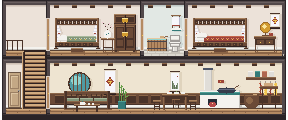
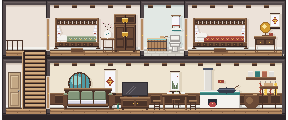
Season maps: people breathe while standing; 茵菲谷 living room gets a three-seat sofa and a TV the parents watch
Claude-Session: https://claude.ai/code/session_01HP37xpvuwwsvGpZEAk6w5s

Changed region(s): [[0.2188, 0.675, 0.5312, 0.925]]

diff --git a/prototype/map-test/infei_home.js b/prototype/map-test/infei_home.js
@@ -11,23 +11,24 @@ const infeiHome=(function(){
   bath:{name:'木浴桶',rect:[171,28,25,23],x:184,y:50,need:'hygiene',act:'bath',label:'泡个澡',hide:true,line:['热水泡一泡，舒服','木桶的味道真好闻']},
   toilet:{name:'卫生间',rect:[196,24,16,27],x:204,y:50,need:'bladder',act:'toilet',label:'上厕所',line:['马上出来']},
   parents:{name:'爸妈的房间',rect:[216,10,92,41],x:240,y:50,look:['这是爸妈的床，我不睡这儿','被子是妈妈新缝的']},
-  settee:{name:'长椅',rect:[90,84,48,25],x:114,y:108,need:'fun',act:'season_sofa',label:'坐着歇会儿',line:['坐一会儿，看看窗外','这椅子坐着真舒服'],max:90},
+  settee:{name:'沙发',rect:[89,86,50,23],x:113,y:108,iy:-5,face:1,need:'fun',act:'season_sofa',label:'坐着歇会儿',line:['坐一会儿，看看窗外','这沙发软乎乎的'],max:90},
+  tv:{name:'电视',rect:[146,80,30,29],x:113,y:108,iy:-5,face:1,need:'fun',act:'tv',label:'看电视',line:['看会儿电视','看看今天演什么']},   // owner 2026-11-14: 客厅放沙发电视 (the home's TV act, watched from the sofa)
   table:{name:'饭桌',rect:[176,80,52,29],x:184,y:108,face:1,need:'hunger',act:'eat',label:'吃饭',line:['开饭咯','真香']},
   stove:{name:'灶台',rect:[226,66,46,43],x:276,y:108,face:-1,need:'hunger',act:'cook',label:'做顿饭',line:['生火、切菜……','自己做的就是香'],rate:3},
   cupboard:{name:'碗柜',rect:[0,0,0,0],x:262,y:108,face:-1,need:'hunger',act:'snack',log:'饿坏了，从碗柜里拿了妈妈留的饭。',label:'拿现成的',line:['先吃点现成的','妈妈留了饭']},   // no art of its own: the corner by the stove (quick meal only)
   jar:{name:'水缸',rect:[272,82,34,27],x:285,y:108,need:'hunger',act:'snack',log:'舀了口井水喝。',label:'喝口水',line:['井水凉丝丝的']}
  };
  const RATE={hunger:2.4,energy:.45,hygiene:3,bladder:8,fun:1.3,social:1.6};
- const NEED_SPOT={energy:'bed',hygiene:'bath',bladder:'toilet',hunger:'stove',fun:'settee'};
+ const NEED_SPOT={energy:'bed',hygiene:'bath',bladder:'toilet',hunger:'stove',fun:'tv'};
  let svc=null,lastT=sim.t,hinted=false,wasInside=false,leaving=false;
  const inRect=(x,y,[rx,ry,w,h])=>x>=rx&&x<rx+w&&y>=ry&&y<ry+h;
- function stop(){if(!svc)return;const s=C().state;s.pose=null;s.hideHero=false;seasonHouse.drop(svc.act);svc=null;T.state.autoAt=sim.t+30;}
+ function stop(){if(!svc)return;const s=C().state;s.pose=null;s.hideHero=false;s.iy=0;seasonHouse.drop(svc.act);svc=null;T.state.autoAt=sim.t+30;}
  function use(id,auto){
   if(id==='table'&&!homeMeal())id='stove';
   if(id==='stove'&&auto&&homeMeal())id='table';   // a cooked meal waits on the table: eat it, don't cook another (owner 2026-11-10)   // nothing on the table: cook first, then eat (as at home)
   if(id==='stove'&&!auto){closeRing();seasonHouse.menu('spring');return;}   // the player clicked the stove (or an empty table): the menu
   const p=SPOTS[id],c=C();if(!p||!p.act)return;stop();closeRing();T.state.autoAt=sim.t+60;
-  const begin=()=>{const s=c.state;s.x=p.x;s.facing=p.face||(p.x>170?1:-1);svc={id,act:p.act,need:p.need,auto};s.pose=null;s.hideHero=!!p.hide;speak(pick(p.line),true);seasonHouse.start(p.act,{auto,log:p.log});};
+  const begin=()=>{const s=c.state;s.x=p.x;s.facing=p.face||(p.x>170?1:-1);svc={id,act:p.act,need:p.need,auto};s.pose=null;s.hideHero=!!p.hide;s.iy=p.iy||0;speak(pick(p.line),true);seasonHouse.start(p.act,{auto,log:p.log});};
   if(!c.state.inside){c.state.target=null;c.state.after=null;c.state.door={to:true,elapsed:0,duration:.65,mid:false};
    const wait=()=>{if(!inSpring())return;if(c.state.door||!c.state.inside)return setTimeout(wait,120);c.target(p.x,p.y,begin);};setTimeout(wait,120);}
   else c.target(p.x,p.y,begin);
@@ -56,10 +57,13 @@ const infeiHome=(function(){
   if(info.inside)sleepers(ctx,!!svc&&svc.id==='bed'&&s.inside&&!s.target);
   if(info.inside&&svc&&svc.id==='bath'&&s.inside&&!s.target){const p=SPOTS.bath,top=TUB_RIM-15,src=dollCanvas({expr:'happy',look:0,bob:0,sway:0,wave:null},'stand');
    ctx.drawImage(src,0,0,src.width,TUB_RIM-top,p.x-10,top,src.width,TUB_RIM-top);}   // in the tub: head and shoulders above the rim
+  // the television plays the home's programmes while she or 爸妈 watch from the sofa
+  if(info.inside&&(seasonHouse.running('tv')&&s.inside||window.seasonParents?.watching?.())){const f=nextTvFrame();if(f)ctx.drawImage(f,TV_AT[0],TV_AT[1]);}
+  else if(typeof tvPlayback!=='undefined'&&inSpring())tvPlayback.playing=false;
   if(info.inside){seasonHouse.cookFx(ctx,COOK_FX[0],COOK_FX[1]);seasonHouse.meal(ctx,MEAL_AT[0],MEAL_AT[1]);}   // the home's pan and dish
   if(svc){
-   if(s.target||!s.inside){s.pose=null;s.hideHero=false;seasonHouse.drop(svc.act);svc=null;return;}
-   if(!seasonHouse.running(svc.act)){s.pose=null;s.hideHero=false;svc=null;return;}   // the home's act is over (its next step is routed below)
+   if(s.target||!s.inside){s.pose=null;s.hideHero=false;s.iy=0;seasonHouse.drop(svc.act);svc=null;return;}
+   if(!seasonHouse.running(svc.act)){s.pose=null;s.hideHero=false;s.iy=0;svc=null;return;}   // the home's act is over (its next step is routed below)
    T.state.autoAt=sim.t+1e6;
    if(info.inside&&svc.id==='bed'&&!reduced())seasonHouse.sleepFx(ctx,BEDS.mine[0]+HEAD[0]+10,BEDS.mine[1]+HEAD[1]-14);
    if(info.inside&&svc.id==='bath')seasonHouse.emote(ctx,SPOTS.bath.x+3,TUB_RIM-29);
@@ -91,7 +95,7 @@ const infeiHome=(function(){
   if(she&&covers.mine?.complete){const [bx,by]=BEDS.mine;ctx.drawImage(lyingHead(SLEEPY),bx+HEAD[0],by+HEAD[1]);ctx.drawImage(covers.mine,bx,by);}
  }
  const HEAD=[2,8];
- const COOK_FX=[246,69],MEAL_AT=[194,80];   // the home's pan steam over the stove, the dish on the dining table (tuned by screenshot)
+ const COOK_FX=[246,69],MEAL_AT=[194,80],TV_AT=[149,83];   // TV_AT: the screen (24×12) of the set on its cabinet   // the home's pan steam over the stove, the dish on the dining table (tuned by screenshot)
  const TUB_RIM=34;   // the bath tub's top edge (house px)   // the rotated head's place on the pillow, in bed-sprite coordinates
  const reduced=()=>matchMedia('(prefers-reduced-motion:reduce)').matches;
  // 回家 = the farmhouse; 离开茵菲谷 is the only way out (player only)

diff --git a/prototype/map-test/season_parents.js b/prototype/map-test/season_parents.js
@@ -12,7 +12,7 @@
  const npc={};const npcOf=id=>{const lk=look(id);if(!npc[id]||npc[id].look!==lk)npc[id]={look:lk,ramps:doll.rampsOf(lk),cache:new Map(),kid:false};return npc[id];};
  const name=id=>id==='mom'?'妈妈':'爸爸',contact=id=>socialState.contacts.find(c=>c.id===id);
  // farmhouse ground floor (house px): where they stand or sit
- const AT={stove:[262,'stand'],jar:[300,'stand'],tableL:[200,'sit'],tableR:[216,'sit'],setteeL:[99,'sit'],setteeR:[124,'sit'],door:[60,'stand'],kitchen:[240,'stand']};
+ const AT={stove:[262,'stand'],jar:[300,'stand'],tableL:[200,'sit'],tableR:[216,'sit'],setteeL:[100,'sit'],setteeR:[126,'sit'],door:[60,'stand'],kitchen:[240,'stand']};
  let visit=null;   // {day} — she flew in to see them: both home all day
  // ---------------------------------------------------------------- the day's plan → {mom:spot,dad:spot}
  function plan(){if(!ready())return {};const m=mins(),v=visit&&visit.day===today(),fc=farmCny();
@@ -27,7 +27,10 @@
   if(m>=14*60&&m<16*60&&today()%3===1)o.mom=Math.floor(m/40)%2?'jar':'setteeL';
   if(typeof weather!=='undefined'&&weather.kind==='rain'&&m>=8*60&&m<17*60+30){o.mom=Math.floor(m/50)%3===0?cook:'setteeL';o.dad=Math.floor(m/70)%2?'tableR':'setteeR';}
   if(v&&m>=8*60&&m<17*60+30){o.mom=Math.floor(m/90)%2?'tableL':cook;o.dad=Math.floor(m/120)%2?'tableR':'setteeR';}
-  if(infeiHome.svc?.id==='settee'&&o.dad==='setteeR')o.dad='tableR';   // she took the middle of the bench: 爸爸 moves to the table
+  // owner 2026-11-14: the sofa seats three (she sits in the middle), and on some days they watch television:
+  // after lunch for a while, and now and then in the afternoon
+  if(m>=13*60+30&&m<14*60+30&&today()%3!==1){o.dad='setteeR';if(today()%2)o.mom='setteeL';}
+  if(m>=15*60+30&&m<16*60+40&&today()%4===2){o.mom='setteeL';o.dad='setteeR';}
   return o;}
  // ================================================================ 爸妈像她一样真的走动（owner 2026-11-12：不要闪现）
  // Each parent is a little walker with a place in the valley (in the farmhouse on a floor, out in a field, or gone to town).
@@ -35,7 +38,7 @@
  // (inside x 51 / the yard x 182), field to field over the scene edges, off the brook's left edge to town and back.
  const WIDTH=[342,342,342,342,342,684],FLOOR=[108,50],STAIR=61,DOOR_IN=51,DOOR_OUT=182;
  const SPOT={stove:{in:1,f:0,x:262},jar:{in:1,f:0,x:300},tableL:{in:1,f:0,x:200,pose:'sit'},tableR:{in:1,f:0,x:216,pose:'sit'},
-  setteeL:{in:1,f:0,x:99,pose:'sit'},setteeR:{in:1,f:0,x:124,pose:'sit'},kitchen:{in:1,f:0,x:240},
+  setteeL:{in:1,f:0,x:100,pose:'sit',face:1},setteeR:{in:1,f:0,x:126,pose:'sit',face:1},kitchen:{in:1,f:0,x:240},
   bedM:{in:1,f:1,x:236,pose:'sleep'},bedD:{in:1,f:1,x:256,pose:'sleep'},
   coop:{s:3,x:82,face:-1,fx:'grain',roam:[72,104]},yardL:{s:3,x:166,face:1},yardR:{s:3,x:198,face:-1},
   field:{s:4,x:150,roam:[40,300],fx:'weed'},orchard:{s:5,x:190,roam:[70,300]},pasture:{s:5,x:520,roam:[410,640]},town:{away:1}};
@@ -89,11 +92,14 @@
  // compatibility: who is in the farmhouse (with the old shape {id,q:{x,tx,out},pose,k})
  function here(){if(!ready()||!inSpring())return [];const up=C().state.y<80?1:0;
   return Object.values(ag).filter(a=>a.w==='in'&&!a.hidden&&!a.sleep&&a.climb==null).map(a=>({id:a.id,q:{x:a.x,tx:a.op||a.wander?NaN:a.x,out:a.f!==up},pose:spotOf(a.k).pose||'stand',k:a.k}));}
+ // someone is sitting on the sofa in front of the television (the set is on for them)
+ const watching=()=>inSpring()&&ready()&&Object.values(ag).some(a=>a.w==='in'&&!a.op&&!a.wander&&String(a.k).startsWith('settee'));
  const sleeping=id=>inSpring()&&ready()&&ag[id].w==='in'&&ag[id].sleep&&!ag[id].op;
  // ---------------------------------------------------------------- drawing
  function drawWalker(ctx,a,feet){const t=spotOf(a.k),arrived=!a.op&&!a.wander,sit=arrived&&t.pose==='sit',s=C().state;
   const look=a.moving?a.face:arrived&&t.face?t.face:Math.sign(s.x-a.x)||1;
-  const f={expr:sit?'happy':'neutral',look,bob:a.moving?Math.floor(realClock*5)%2:0,sway:a.moving?Math.floor(realClock*3)%2:0,wave:null};
+  const f={expr:sit?'happy':'neutral',look,bob:a.moving?Math.floor(realClock*5)%2:idleBreath.bob(a.id==='mom'?.6:1.3),sway:a.moving?Math.floor(realClock*3)%2:0,wave:null};
+  if(!a.moving&&idleBreath.blink(a.id==='mom'?1.1:2.7))f.expr='blink';
   const p=sit?'sit':a.moving?['walkL','stand','walkR','stand'][Math.floor(realClock*6)%4]:'stand';
   ctx.drawImage(npcCanvas(npcOf(a.id),f,p,false),Math.round(a.x)-10,feet-27-(sit?(String(a.k).startsWith('settee')?5:3):0));
   if(arrived&&t.fx==='grain'){ctx.fillStyle='#e8cf7a';for(let i=0;i<4;i++){const u=(realClock*1.3+i/4)%1;ctx.fillRect(Math.round(a.x-6-u*10-i),Math.round(feet-14+u*13),1,1);}}
@@ -252,5 +258,5 @@
   if(p==='spring_test'&&visit?.pending){visit={day:today()};setTimeout(()=>{if(!inSpring())return;if(ready()&&!C().state.inside)X.hooks.pick.indoor();talkQ.push(['mom',pick(['来啦！路上累不累？','哎呀，怎么突然回来了，也不说一声！','正念叨你呢，你就到了。'])],['dad',pick(['我去杀只鸡。','屋里坐，外头风大。','行李给我。'])],['me',pick(['想你们了嘛！','回来看看你们～','饿了！'])]);
    log('飞到茵菲谷，爸妈都在家。');addSocialMemory?.(contact('mom'),'回茵菲谷看爸妈','坐飞机去茵菲谷，爸妈都在家等着。');},1800);}
   return r;};
- window.seasonParents={plan,here,farmCny,goSee,sleeping,doErrand,tell,walkers:ag,get visit(){return visit;}};
+ window.seasonParents={plan,here,farmCny,goSee,sleeping,doErrand,tell,walkers:ag,watching,get visit(){return visit;}};
 })();

diff --git a/prototype/map-test/adapter.js b/prototype/map-test/adapter.js
@@ -7,12 +7,17 @@ const seasonalTest=(function(){
  const active=()=>['spring_test','summer_test','autumn_test'].includes(sim.place);
  const ctl=()=>sim.place==='spring_test'?state.spring:sim.place==='summer_test'?state.summer:sim.place==='autumn_test'?state.autumn:null;
  const body=document.createElement('canvas');body.width=20;body.height=28;const bodyCtx=body.getContext('2d');
+ // Standing still is not frozen (owner 2026-11-14: at home she at least stretches and settles; in the season maps she
+ // and 爸妈 stood like statues): the home's idle rhythm, a small rise and settle every couple of seconds and a blink
+ // now and then. ph shifts the rhythm so two people side by side do not move as one.
+ window.idleBreath={bob:(ph=0)=>reduceMotionUI?0:(realClock+ph)%1.9<.4?1:0,blink:(ph=0)=>!reduceMotionUI&&(realClock+ph)%4.1<.12};
  function drawHero(ctx,x,y,s,sea){
   if(s.hideHero&&!sea)return;
   const swimming=sea&&(sea.under||sea.floating)&&!s.inside,arm=Math.floor(s.time/.28)%2;
-  const walking=s.walk,phase=Math.floor(s.time*7)%4;
-  let f={expr:sim.mode==='down'?'sleepy':emotion().key==='happy'?'happy':'neutral',look:s.facing||1,bob:swimming?0:walking?phase%2:0,sway:swimming?0:walking?phase%2:0,wave:swimming?arm:null};
+  const walking=s.walk,phase=Math.floor(s.time*7)%4,still=!walking&&!swimming&&!s.pose&&sim.mode!=='down'&&!(sea&&s.lying!==null);
+  let f={expr:sim.mode==='down'?'sleepy':emotion().key==='happy'?'happy':'neutral',look:s.facing||1,bob:swimming?0:walking?phase%2:still?idleBreath.bob():0,sway:swimming?0:walking?phase%2:still?idleBreath.bob():0,wave:swimming?arm:null};
   let dc=dollCanvas(f,s.pose|| (sea&&s.lying!==null?'sit':swimming?'stand':walking?(phase===1?'walkL':phase===3?'walkR':'stand'):'stand'));
+  if(still&&idleBreath.blink()&&f.expr==='neutral'){f={...f,expr:'blink'};dc=dollCanvas(f,'stand');}
   const hf=(s.inside||['phone_feed','phone_game'].includes(sim.act))&&!walking&&sim.mode!=='down'&&window.seasonHouse?.frame();   // using a season house: the home's own face, pose and bubble for that act
   if(hf){f={...f,...hf.f,look:hf.f.look===0?0:(s.facing||1)};dc=dollCanvas(f,s.pose||hf.pose);}
   if(sea&&window.__surfHero&&!s.inside){const h=window.__surfHero;let d=dc;if(h.pose){d=dollCanvas(f,h.pose);if(s.suit!=='clothes'){bodyCtx.clearRect(0,0,20,28);bodyCtx.drawImage(sea.sheet,4,14,20,14,0,14,20,14);bodyCtx.drawImage(d,0,0,20,15,0,0,20,15);d=body;}}h.args={dc:d,skin:ramps.skin,sheet:sea.sheet};return;}   // riding a wave: summer_more draws her on the board, above the water
@@ -20,7 +25,7 @@ const seasonalTest=(function(){
   if(sea&&s.suit!=='clothes'){
    bodyCtx.clearRect(0,0,20,28);bodyCtx.drawImage(sea.sheet,4,14,20,14,0,14,20,14);bodyCtx.drawImage(dc,0,0,20,15,0,0,20,15);dc=body;
   }
-  ctx.save();ctx.translate(x,y+(sea?.floating?Math.sin(s.time*2.2)*.65:0));
+  ctx.save();ctx.translate(x,y+(sea?0:s.iy||0)+(sea?.floating?Math.sin(s.time*2.2)*.65:0));   // iy: raised onto a seat in the 茵菲谷 farmhouse (the lodge adds its own)
   if(sea&&(s.diveBlend||0)>.001){ctx.translate(0,-14);ctx.scale(s.facing||1,1);ctx.rotate(Math.PI/2*s.diveBlend);ctx.drawImage(dc,-10,-14);}
   else if(sim.mode==='down'){ctx.rotate(-Math.PI/2);ctx.drawImage(dc,-10,-18);}
   else ctx.drawImage(dc,-10,-DH+1);

diff --git a/prototype/map-test/season_auto.js b/prototype/map-test/season_auto.js
@@ -28,7 +28,7 @@
   const what=pickW([['stroll',dry.length||ripe.length?12:30],['home',s.inside?8:14],['water',dry.length?45:0],['animals',pet.length||ready.length||hungry.length?16:0],
    ['harvest',ripe.length?35:0],['fruit',trees.length?14:0]]);
   if(what==='stroll'){if(s.inside){c.leave();return true;}const w=s.scene===5?684:342;c.target(Math.max(20,Math.min(w-20,s.x+(Math.random()<.5?-1:1)*(30+Math.random()*70))));return true;}
-  if(what==='home'){infeiHome.use(pick(['settee','wardrobe','table','jar']),true);return true;}
+  if(what==='home'){infeiHome.use(pick(['settee','tv','wardrobe','table','jar']),true);return true;}
   if(what==='water'){const i=pick(dry);toScene(4,()=>X().water(i));return true;}
   if(what==='harvest'){const i=pick(ripe);toScene(4,()=>X().harvest(i));return true;}
   if(what==='fruit'){const i=pick(trees);toScene(5,()=>Fm.pickFruit(i));return true;}
@@ -99,7 +99,7 @@
    if(what==='shore'){if(s.inside){c.leave();return true;}c.goTo(820+Math.random()*200);return true;}
    summerLodge.goUse(pick(['tv','tv','sofa','uke','table','dine'].filter(k=>k!=='dine'||homeMeal())));return true;}
   if(window.infeiQuests?.busy||storyLocked()||springFarm.state.phase!=='done')return false;
-  if(Math.random()<.8){infeiHome.use(pick(['settee','settee','table','jar','wardrobe']),true);return true;}
+  if(Math.random()<.8){infeiHome.use(pick(['settee','tv','tv','table','jar','wardrobe']),true);return true;}
   if(s.inside){c.leave();return true;}return false;}
  // bedtime is checked every second (act() only runs every 20-45 minutes): she heads for bed right at 22:30
  setInterval(()=>{try{if(!['spring_test','summer_test'].includes(sim.place)||!speed||!bedtime()||wiping||cardHolds()||life.talkQ||storyLocked()||sim.mode==='down'||ringOf)return;

diff --git a/prototype/map-test/infei_farm.js b/prototype/map-test/infei_farm.js
@@ -147,7 +147,7 @@ const infeiFarm=(()=>{
   if(parent.water>0){parent.water-=dt;const [bx,top,bw,bh]=D.plots[parent.bed];ctx.fillStyle='#9cc8ef';for(let k=0;k<6;k++){const xx=bx+bw-4-((k*7+Math.floor(t*20))%Math.min(30,bw)),yy=top+((k*5+Math.floor(t*30))%(bh+4));ctx.fillRect(xx,yy,1,2);}
    if(parent.water<=0){const b=X.bedOf(parent.bed);if(b&&b.watered!==today()){b.watered=today();log(`${pName(parent.who)}回来了一趟，帮你给第 ${X.F.open.indexOf(parent.bed)+1} 块田浇了水。`);}parent.tx=380;parent.done=()=>parent.on=false;}}
   else if(parent.tx!=null){const d=parent.tx-parent.x,st=dt*WALK*1.1;if(Math.abs(d)<=st){parent.x=parent.tx;parent.tx=null;const f=parent.done;parent.done=null;f?.();}else{parent.x+=Math.sign(d)*st;parent.facing=Math.sign(d);}}
-  const walking=parent.tx!=null,ph=Math.floor(t*7)%4,f={expr:'happy',look:parent.water>0?-1:parent.facing||-1,bob:walking?ph%2:0,sway:walking?ph%2:0,wave:null};
+  const walking=parent.tx!=null,ph=Math.floor(t*7)%4,f={expr:'happy',look:parent.water>0?-1:parent.facing||-1,bob:walking?ph%2:parent.water>0?0:idleBreath.bob(.8),sway:walking?ph%2:0,wave:null};
   ctx.drawImage(npcCanvas(parent.n,f,walking?(ph===1?'walkL':ph===3?'walkR':'stand'):'stand'),Math.round(parent.x)-10,76);}
  withHeroHooks.push(id=>parent.on&&id===parent.who&&inSpring());
  // ================================================================ 每日操盘

diff --git a/prototype/map-test/spring_story.js b/prototype/map-test/spring_story.js
@@ -46,7 +46,7 @@ const springFarm=(()=>{
   if(Math.abs(d)<=st){mom.x=mom.tx;mom.tx=null;const f=mom.done;mom.done=null;f?.();}else{mom.x+=Math.sign(d)*st;mom.facing=Math.sign(d);}}
  function drawMom(ctx,info){
   if(!mom.on||(mom.inside?!info.inside:(info.inside||mom.scene!==info.region)))return;
-  const walking=mom.tx!=null,ph=Math.floor(info.time*7)%4,f={expr:'happy',look:mom.facing,bob:walking?ph%2:0,sway:walking?ph%2:0,wave:null};
+  const walking=mom.tx!=null,ph=Math.floor(info.time*7)%4,f={expr:'happy',look:mom.facing,bob:walking?ph%2:idleBreath.bob(.8),sway:walking?ph%2:0,wave:null};
   ctx.drawImage(npcCanvas(momNpc(),f,walking?(ph===1?'walkL':ph===3?'walkR':'stand'):'stand'),Math.round(mom.x)-10,Math.round(mom.y)-27);
   if(F.phase==='meet'){const x=Math.round(mom.x),y=Math.round(mom.y)-30+Math.round(Math.sin(info.time*3));   // her "!" (same as the villagers')
    ctx.fillStyle='#22182a';ctx.fillRect(x-4,y-11,9,11);ctx.fillStyle='#f6d36b';ctx.fillRect(x-3,y-10,7,9);ctx.fillStyle='#22182a';ctx.fillRect(x,y-9,1,5);ctx.fillRect(x,y-3,1,1);}

diff --git a/prototype/map-test/infei_quests.js b/prototype/map-test/infei_quests.js
@@ -250,7 +250,7 @@ const infeiQuests=(function(){
  X.hooks.draw.push((ctx,info)=>{if(info.inside||S().phase!=='done')return;const t=info.time,gs=goals();
   for(const [key,v]of Object.entries(V)){if(!visible(v))continue;const p=where(v);if(p.scene!==info.region)continue;
    const s=C().state;if(!busy&&Math.abs(s.x-p.x)<40)v.dir=s.x<p.x?-1:1;
-   const f={expr:'neutral',look:v.dir,bob:0,sway:0,wave:null};ctx.drawImage(npcCanvas(v,f,'stand'),Math.round(p.x)-10,103-27);
+   const f={expr:idleBreath.blink(p.x*.37)?'blink':'neutral',look:v.dir,bob:idleBreath.bob(p.x*.37),sway:0,wave:null};ctx.drawImage(npcCanvas(v,f,'stand'),Math.round(p.x)-10,103-27);
    const g=gs.find(g=>g.v===v);if(g&&!busy)mark(ctx,p.x,103-30-(v.kid?-4:0)+Math.round(Math.sin(t*3)),g.mark);}
   for(const g of gs)if(g.spot&&SPOTS[g.spot].scene===info.region&&!busy){const sp=SPOTS[g.spot];mark(ctx,sp.x,sp.rect[1]+18+Math.round(Math.sin(t*3)),g.mark||'?');}
   if(rabbit.on&&info.region===4)bunny(ctx,318,103,t);

diff --git a/prototype/map-test/infei_audio.js b/prototype/map-test/infei_audio.js
@@ -44,7 +44,7 @@ const infeiAudio=(function(){
   if(now.coins>a.coins+.05)play('infei-coin',.45,{gap:.3});
   for(const [k,st]of Object.entries(now.q)){const o=a.q[k];if(o==null||st===o||o===0)continue;   // 0→1 = a new quest: quest_panel.js plays it with its pop-out
   play(st===9?'infei-done':'infei-quest',.5);}
-  const HOME={bed:'fabric',bath:'water',toilet:'flush',stove:'cook',table:'cutlery',jar:'drink',settee:'seat',wardrobe:'fabric'};
+  const HOME={bed:'fabric',bath:'water',toilet:'flush',stove:'cook',table:'cutlery',jar:'drink',settee:'seat',tv:'seat',wardrobe:'fabric'};
   if(now.svc&&now.svc!==a.svc)play(HOME[now.svc]||'seat',.45);
  }
  springFarm.X.hooks.draw.push((ctx,info)=>{

diff --git a/art/src/concept/_farmstead.py b/art/src/concept/_farmstead.py
@@ -513,6 +513,41 @@ def settee(w=46):
     return s
 
 
+def sofa_cn(w=50):
+    """A three-seat sofa for the farmhouse living room (owner 2026-11-14: 沙发支持三个人坐), seen from the front: a
+    dark timber frame with a rail along the back, three fat back cushions, three seat cushions, padded arms."""
+    s = Sprite(w, 21)
+    s.rect(1, 0, w - 2, 3, DARK[2]).hline(1, w - 2, 0, DARK[4]).hline(1, w - 2, 2, DARK[1])     # the back's top rail
+    s.rect(2, 3, w - 4, 9, DARK[1])
+    n = (w - 10) // 3
+    for k in range(3):
+        cx = 5 + k * n
+        s.rect(cx, 3, n - 1, 9, P.sage[2]).hline(cx, cx + n - 2, 3, P.sage[3]).hline(cx, cx + n - 2, 11, P.sage[1])
+        s.vline(cx + n - 2, 4, 10, P.sage[1]).set(cx, 3, DARK[1]).set(cx + n - 2, 3, DARK[1])
+        s.rect(cx, 12, n - 1, 4, P.linen[2]).hline(cx, cx + n - 2, 12, P.linen[3]).hline(cx, cx + n - 2, 15, P.linen[1])
+    s.rect(4, 16, w - 8, 2, DARK[2]).hline(4, w - 5, 16, DARK[3])                              # the seat rail
+    for x in (0, w - 5):                                                                         # arms
+        s.rect(x, 6, 5, 12, DARK[2]).hline(x, x + 4, 6, DARK[4]).vline(x + 4 if x == 0 else x, 7, 17, DARK[1])
+        s.rect(x + 1, 5, 3, 2, P.sage[2]).hline(x + 1, x + 3, 5, P.sage[3])
+    for x in (1, w - 4):
+        s.rect(x, 18, 3, 3, DARK[1]).vline(x, 18, 20, DARK[2])
+    s.rect(5, 18, w - 10, 1, DARK[0])
+    return s
+
+
+def tv_cabinet(w=30):
+    """A low timber cabinet for the television: two doors with brass pulls, short legs."""
+    s = Sprite(w, 13)
+    s.rect(0, 0, w, 2, DARK[3]).hline(0, w - 1, 0, DARK[4])
+    s.rect(1, 2, w - 2, 9, DARK[2]).hline(1, w - 2, 10, DARK[1])
+    for x in (3, w // 2 + 1):
+        s.rect(x, 3, w // 2 - 4, 6, DARK[1]).hline(x, x + w // 2 - 5, 3, DARK[3])
+    s.set(w // 2 - 2, 6, P.mustard[3]).set(w // 2 + 2, 6, P.mustard[3])
+    for x in (2, w - 4):
+        s.rect(x, 11, 2, 2, DARK[1])
+    return s
+
+
 def tea_table():
     s = Sprite(26, 8)
     s.rect(0, 0, 26, 2, DARK[2]).hline(0, 25, 0, DARK[4])
@@ -757,16 +792,12 @@ def cn_farmhouse_inside():
     wainscot(x0, x1 - x0, fl)
     HS.place(s, moon_window(10), x0 + 18, top + 9)
     HS.place(s, scroll(12, 26, "fu"), x0 + 54, top + 6)
-    HS.on_floor(s, settee(46), x0 + 14, 0, 2)
-    tt = tea_table()
-    s.blit(tt, x0 + 24, fl + 1 - tt.h + 3)
-    teaset(s, x0 + 30, fl - 3)
-    pot_x = x0 + 68
-    s.rect(pot_x, fl - 7, 8, 8, P.teal[2]).hline(pot_x, pot_x + 7, fl - 7, P.teal[3]).vline(pot_x + 7, fl - 6, fl, P.teal[1])
-    for k in range(4):
-        s.vline(pot_x + 1 + k * 2, fl - 26 + k * 3, fl - 8, P.green[2 + (k % 2)])
-        s.line(pot_x + 1 + k * 2, fl - 20 + k * 3, pot_x + 4 + k * 2, fl - 22 + k * 3, P.green[3])
-        s.set(pot_x + 1 + k * 2, fl - 16 + k * 2, P.green[1])
+    # owner 2026-11-14: a sofa for three and a television in place of the settee, tea table and bamboo
+    HS.on_floor(s, sofa_cn(50), x0 + 13, 0, 2)
+    cab = tv_cabinet(30)
+    s.blit(cab, x0 + 70, fl + 2 - cab.h)
+    s.blit(F.tv(False), x0 + 72, fl + 2 - cab.h - 15)
+    s.rect(x0 + 67, fl - 3, 2, 4, P.teal[2]).set(x0 + 67, fl - 4, P.green[3]).set(x0 + 68, fl - 5, P.green[2])   # a sprig in a jar by the cabinet
     tx = x0 + 112
     HS.place(s, scroll(10, 22, "mountain"), tx + 8, top + 8)
     HS.on_floor(s, stool(), tx + 10, 0, 1)

diff --git a/docs/AGENT_LOG.md b/docs/AGENT_LOG.md
@@ -6,6 +6,12 @@ owner decisions made, what was not tested. Keep older entries; trim beyond ~40 e
 
 ---
 
+## 2026-11-14 Claude — 季节地图站着会呼吸；茵菲谷客厅换三人沙发 + 电视，爸妈会看电视
+- 站立不再像雕像：adapter.js `idleBreath`（约 1.9 秒起伏一下、偶尔眨眼，减少动效时关闭），drawHero 站定时用它（三张季节图的主角都生效）；爸妈（season_parents）、帮忙浇水的家长（infei_farm）、迎接剧情的妈妈（spring_story）、村民（infei_quests）错开节奏。
+- 客厅：_farmstead.py 新 sofa_cn()/tv_cabinet()，去掉长椅、茶几、竹子；infei_home SPOTS.settee 改“沙发”，新增 tv（act 'tv'，娱乐需求默认去看电视），坐下抬高 iy -5（drawHero 支持 s.iy）；电视在她或爸妈坐沙发时播家里的节目（TV_AT=[149,83]）。
+- 爸妈：沙发座位 x 100/126，她坐中间不再把爸爸挤去饭桌；午饭后（13:30–14:30，三天里两天）和部分下午（15:30–16:40，四天一次）会坐沙发看电视，晚上原有的坐沙发照旧。seasonParents.watching()。
+- 已测（Playwright 内测页）：19:20 爸妈坐两侧、电视亮；infeiHome.use('tv') 她坐中间，三人并排，无报错；idleBreath 三种状态都出现。未测：午后看电视时段、春节步骤里的沙发站位、草帽湾/栗尾市主角呼吸的截图。
+
 ## 2026-11-13 Claude — 秋季地图再改名为栗尾市；西侧瀑布换成高楼群
 - 主人：名字改“栗尾市”，为突出城市景观去掉左边瀑布，换成不可进入的高楼（重庆/香港式错落紧密）。全仓库 栗尾坞→栗尾市（旧日志条目除外）。
 - autumn_city.py：新 City.tower()（正面+右侧面+屋顶面，楼板线、多种窗、空调、阳台晾衣、排水管、底商、竖招牌、水箱/楼梯间/天线/屋顶花园/退台顶层）与 towers(c)（六排 24 栋，x 0–112）。删除瀑布、岩壁、溪、观瀑台、路线“观瀑台”、地点 falls（地点 24→23）；FALLS=[]，game.js drawFalls 空转；西侧树、灌木、岩块去掉。
